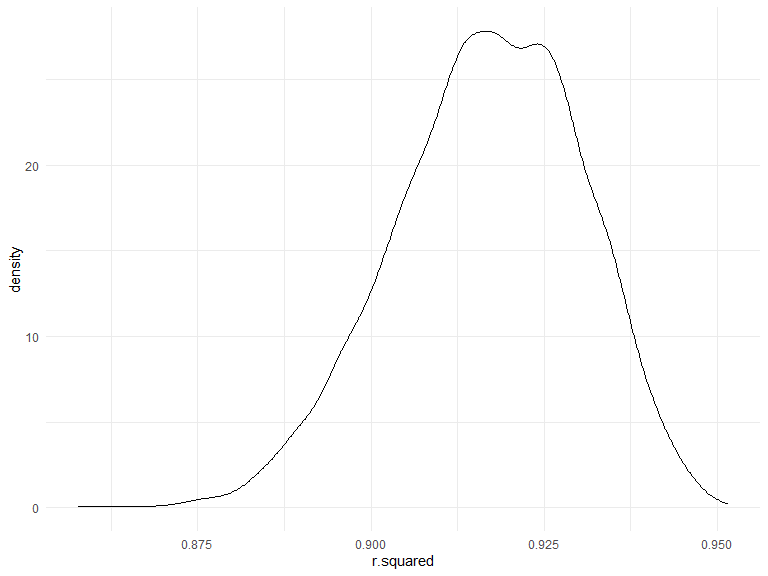
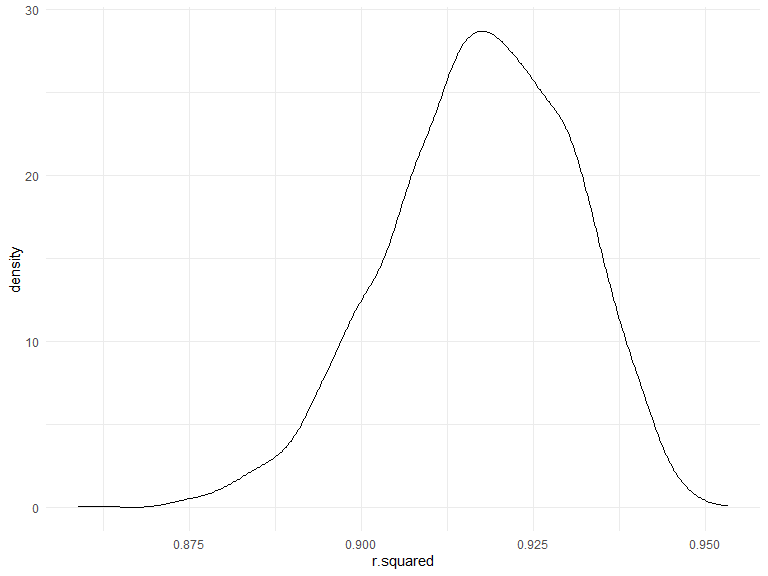
finish Question 2. Bootsrap log_b1b2. Plot distribution and calculate CI for it.

diff --git a/p8105_hw6_sc5126.md b/p8105_hw6_sc5126.md
@@ -3,37 +3,9 @@ p8105_hw6_sc5126
 Si Chen
 2023-12-02
 
-``` r
-library(tidyr)
-library(tidyverse)
-library(rvest)
-library(viridis)
-library(patchwork)
-library(olsrr)
-library(mgcv)
-library(modelr)
-
-
-knitr::opts_chunk$set(
-    echo = TRUE,
-    warning = FALSE,
-    fig.width = 8, 
-  fig.height = 6,
-  out.width = "90%"
-)
-
-theme_set(theme_minimal() + theme(legend.position = "bottom"))
-
-options(
-  ggplot2.continuous.colour = "viridis",
-  ggplot2.continuous.fill = "viridis"
-)
-
-scale_colour_discrete = scale_colour_viridis_d
-scale_fill_discrete = scale_fill_viridis_d
-```
-
 ## Question 2
+
+# Load data
 
 ``` r
 weather_df = 
@@ -59,6 +31,8 @@ weather_df =
 
     ## file min/max dates: 1869-01-01 / 2023-11-30
 
+# Bootstrap $\hat{r}^2$
+
 ``` r
 bootstrap_r2 = 
   weather_df %>%  
@@ -78,12 +52,77 @@ bootstrap_r2 %>%
 ```
 
 <img src="p8105_hw6_sc5126_files/figure-gfm/plot_r2-1.png" width="90%" />
+
 Here the $\hat{r}^2$ value we derived is high. It has a mean of
-0.9168647. the bootstrap values of $\hat{r}^2$ ranges from 0.8578229 to
-0.9515823. It can be concluded that `tmin` and `prcp` explained `tmax`
-decently, and since the shape of r2 distribution is not very symmetric,
-we shouldn’t simply use mean +/- 1.96 \* the standard error to construct
-the confidence interval for $R^2$. We can calculate the 2.5% and 97.5%
-quantile of the estimates across bootstrap samples instead.
+0.9173115. the bootstrap values of $\hat{r}^2$ ranges from 0.8589792 to
+0.953366. It can be concluded that `tmin` and `prcp` explained `tmax`
+decently.
+
+# The 95% intervel for $\hat{r}^2$
+
+``` r
+bootstrap_r2 %>%  
+  summarize(
+    ci_lower = quantile(r.squared, 0.025), 
+    ci_upper = quantile(r.squared, 0.975))
+```
+
+    ## # A tibble: 1 × 2
+    ##   ci_lower ci_upper
+    ##      <dbl>    <dbl>
+    ## 1    0.889    0.941
+
+## Bootstrap $\log(\beta_1 * \beta2)$
+
+``` r
+bootstrap_logb1b2 = 
+  weather_df %>% 
+  modelr::bootstrap(n = 5000) %>% 
+  mutate(
+    models = map(strap, \(df) lm(tmax ~ tmin + prcp, data=df)),
+    results = map(models, broom::tidy)
+    ) %>% 
+  select(-strap, -models) %>% 
+  unnest(results) %>% 
+  select(id = `.id`, term, estimate) %>% 
+  pivot_wider(
+    names_from = term, 
+    values_from = estimate
+    ) %>% 
+  rename(
+    beta0 = `(Intercept)`, 
+    beta1 = tmin,
+    beta2 = prcp
+    ) %>% 
+  mutate(
+    log_b1b2 = log(beta1 * beta2)
+    )
+```
+
+``` r
+ bootstrap_logb1b2 %>% 
+  ggplot(aes(x = log_b1b2)) + geom_density()
+```
+
+<img src="p8105_hw6_sc5126_files/figure-gfm/plot_logb1b2-1.png" width="90%" />
+
+Here the distribution of $\log(\beta_1 * \beta2)$ is skewed to the left.
+
+The $\log(\beta_1 * \beta2)$ value we derived has a mean of NaN. the
+bootstrap values of $\log(\beta_1 * \beta2)$ ranges from NaN to NaN.
+
+# The 95% intervel for $\log(\beta_1 * \beta2)$
+
+``` r
+bootstrap_logb1b2 %>%  
+  summarize(
+    ci_lower = quantile(log_b1b2, 0.025, na.rm = TRUE), 
+    ci_upper = quantile(log_b1b2, 0.975, na.rm = TRUE))
+```
+
+    ## # A tibble: 1 × 2
+    ##   ci_lower ci_upper
+    ##      <dbl>    <dbl>
+    ## 1    -9.17    -4.57
 
 ## Question 3
